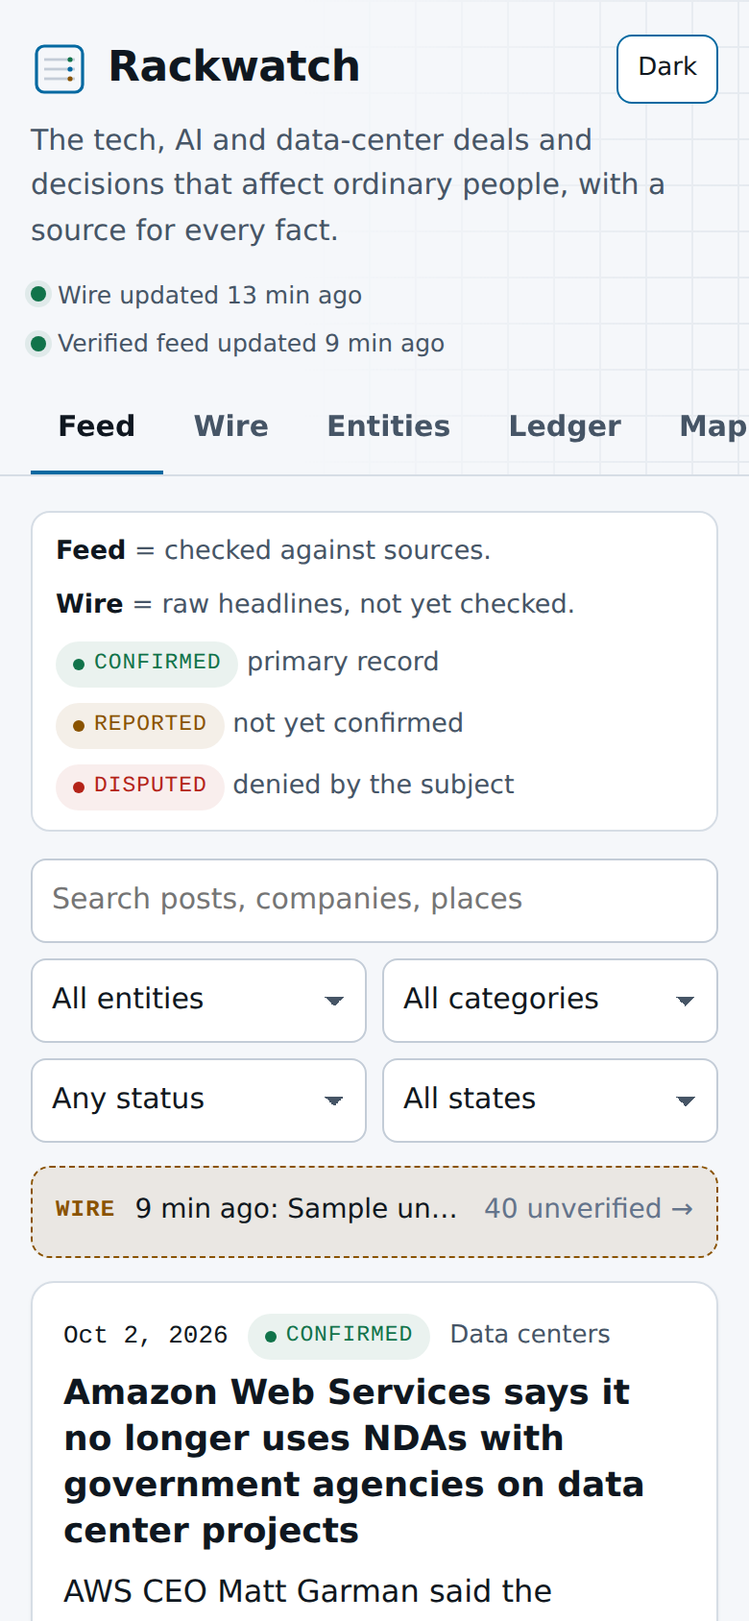
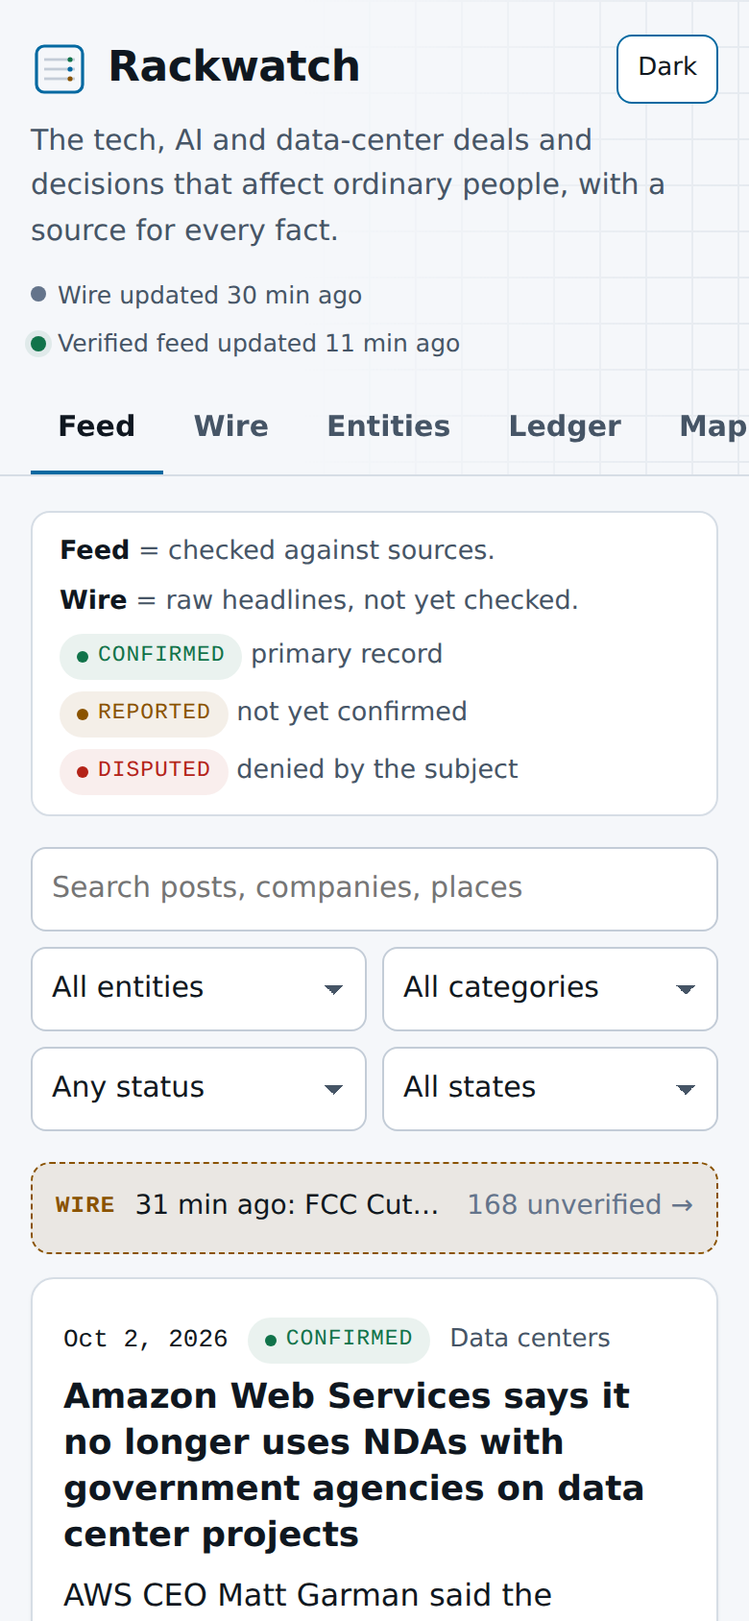
Site: shorter pages, sticky Wire sidebar, searchable Ledger and Entities (#2)
Feed, Wire, Entities, entity timelines, Ledger and Archive now page with
Prev/Next (page kept in the URL). The Feed's Wire sidebar is a sticky,
self-scrolling panel on desktop and hidden on phones in favor of the
Wire strip. Ledger gets search and a type filter (projects: search and
status); Entities gets search and sort. Entity pages drop the duplicate
full post list. 'New since your last visit' labels. Screenshots updated.

Claude-Session: https://claude.ai/code/session_01Gvus3rGbYfJZZkf6H1iRhh

diff --git a/docs/index.html b/docs/index.html
@@ -73,7 +73,7 @@ h3{font-size:17px;margin:0}
 .lbl{font-size:11.5px;letter-spacing:.06em;text-transform:uppercase;color:var(--faint)}
 
 /* legend */
-.legend{display:flex;flex-wrap:wrap;gap:8px 18px;font-size:13.5px;color:var(--muted);margin:0 0 14px;padding:10px 12px;border:1px solid var(--line);border-radius:10px;background:var(--panel)}
+.legend{display:flex;flex-wrap:wrap;gap:6px 16px;font-size:13.5px;color:var(--muted);margin:0 0 16px;padding:10px 14px;border:1px solid var(--line);border-radius:10px;background:var(--panel)}
 .legend b{color:var(--text);font-weight:600}
 .chip{display:inline-flex;align-items:center;gap:5px;font-size:11.5px;letter-spacing:.04em;text-transform:uppercase;padding:2px 8px;border-radius:999px;border:1px solid var(--line2);color:var(--muted);white-space:nowrap}
 .chip.confirmed{color:var(--ok);background:var(--ok-soft);border-color:transparent}
@@ -92,7 +92,7 @@ h3{font-size:17px;margin:0}
 .panel-h .r{margin-left:auto}
 
 /* filters */
-.filters{display:grid;gap:8px;grid-template-columns:1fr 1fr;margin-bottom:12px}
+.filters{display:grid;gap:8px;grid-template-columns:1fr 1fr;margin-bottom:16px}
 .filters .q{grid-column:1/-1}
 @media(min-width:700px){.filters{grid-template-columns:2fr 1fr 1fr 1fr 1fr}.filters .q{grid-column:auto}}
 input[type=search],select{width:100%;min-height:44px;font:inherit;font-size:15px;color:var(--text);background:var(--panel);border:1px solid var(--line2);border-radius:8px;padding:0 10px}
@@ -100,7 +100,8 @@ select{appearance:none;background-image:linear-gradient(45deg,transparent 50%,va
 .active-f{display:flex;flex-wrap:wrap;gap:6px;align-items:center;margin:-4px 0 12px;font-size:13.5px;color:var(--muted)}
 
 /* posts */
-.post{padding:16px;border-bottom:1px solid var(--line)}
+.post{padding:20px 16px;border-bottom:1px solid var(--line)}
+@media(min-width:700px){.post{padding:20px}}
 .post:last-child{border-bottom:0}
 .post:target,.post.hl{background:var(--accent-soft)}
 .meta{display:flex;flex-wrap:wrap;align-items:center;gap:6px 10px;font-size:13px;color:var(--muted);margin-bottom:6px}
@@ -116,7 +117,7 @@ select{appearance:none;background-image:linear-gradient(45deg,transparent 50%,va
 .srcs{font-size:14px;margin:6px 0 0;padding:0;list-style:none}
 .srcs li{margin:2px 0}
 .srcs .o{color:var(--muted)}
-.acts{display:flex;gap:6px;margin-top:10px}
+.acts{display:flex;gap:8px;margin-top:12px}
 .upd{margin:10px 0 4px;padding:8px 12px;border-left:2px solid var(--accent);background:var(--bg2);border-radius:0 8px 8px 0;font-size:14.5px}
 .upd ol{margin:4px 0 0;padding-left:18px}
 .upd li{margin:4px 0}
@@ -138,12 +139,24 @@ figcaption{font-size:12.5px;color:var(--muted)}
 .lane{font-size:11px}
 .wire-note{font-size:13px;color:var(--muted);padding:10px 14px;border-bottom:1px solid var(--line);background:var(--rep-soft)}
 .side-wire{max-height:none}
+.pager{display:flex;align-items:center;justify-content:space-between;gap:12px;padding:12px 16px;border-top:1px solid var(--line);font-size:13px}
+.pager .btn[disabled]{opacity:.4;cursor:default;border-color:var(--line)}
+.pager .mono{color:var(--muted)}
+.panel>.pager:first-child{border-top:0}
+.tbl-wrap+.pager,.ent-grid+.pager,.cards+.pager{border:1px solid var(--line);border-top:0;border-radius:0 0 12px 12px;background:var(--panel);margin-top:-1px}
+.ent-grid+.pager,.cards+.pager{border-top:1px solid var(--line);border-radius:12px;margin-top:12px}
+.toolbar{display:grid;gap:8px;grid-template-columns:1fr;margin:0 0 16px}
+@media(min-width:700px){.toolbar{grid-template-columns:minmax(0,1fr) 220px}}
+.side-foot{display:block;padding:12px 14px;border-top:1px solid var(--line);font-size:14px;font-weight:600;text-decoration:none}
+.chip.new{color:var(--accent);background:var(--accent-soft);border-color:transparent}
+.sec{margin-top:32px}
+.sec>h2{font-size:17px;margin:0 0 12px}
 .wire-strip{display:flex;gap:10px;align-items:center;margin:0 0 12px;padding:10px 12px;min-height:48px;border:1px dashed var(--rep);border-radius:10px;color:var(--text);text-decoration:none;font-size:14px;background:var(--rep-soft)}
 .wire-strip b{color:var(--rep);font-family:"JetBrains Mono",monospace;font-size:12px;text-transform:uppercase;letter-spacing:.05em;flex:0 0 auto}
 .wire-strip span{overflow:hidden;text-overflow:ellipsis;white-space:nowrap;min-width:0}
 @media(min-width:900px){.wire-strip{display:none!important}}
-@media(max-width:899px){.side-wire{order:2}}
-@media(min-width:900px){.side-wire .list{max-height:1100px;overflow:auto}}
+@media(max-width:899px){.side-wire{display:none}}
+@media(min-width:900px){.side-wire{position:sticky;top:16px;align-self:start;max-height:calc(100vh - 32px);display:flex;flex-direction:column;overflow:hidden}.side-wire .list{overflow-y:auto;overscroll-behavior:contain;flex:1 1 auto;min-height:0}.side-wire .panel-h,.side-wire .wire-note,.side-wire .side-foot{flex:0 0 auto}}
 
 /* tables */
 .tbl-wrap{overflow-x:auto;border:1px solid var(--line);border-radius:12px;background:var(--panel)}
@@ -160,10 +173,10 @@ td time{white-space:nowrap}
 .kv{display:grid;grid-template-columns:max-content 1fr;gap:4px 12px;font-size:14px;margin:8px 0}
 .kv dt{color:var(--faint);font-family:"JetBrains Mono",monospace;font-size:11.5px;text-transform:uppercase;letter-spacing:.05em;padding-top:2px}
 .kv dd{margin:0}
-.subtabs{display:flex;flex-wrap:wrap;gap:6px;margin:0 0 14px}
+.subtabs{display:flex;flex-wrap:wrap;gap:8px;margin:0 0 16px}
 .subtabs a{min-height:40px;display:inline-flex;align-items:center;padding:0 12px;border:1px solid var(--line2);border-radius:999px;color:var(--muted);text-decoration:none;font-size:14px;font-weight:600}
 .subtabs a[aria-current="true"]{background:var(--accent);color:var(--accent-ink);border-color:var(--accent)}
-.stats{display:grid;grid-template-columns:repeat(2,1fr);gap:10px;margin:12px 0 16px}
+.stats{display:grid;grid-template-columns:repeat(2,1fr);gap:12px;margin:16px 0 8px}
 @media(min-width:700px){.stats{grid-template-columns:repeat(4,1fr)}}
 .stat{border:1px solid var(--line);border-radius:10px;padding:10px 12px;background:var(--panel)}
 .stat .v{font-family:"JetBrains Mono",monospace;font-size:20px;font-weight:500}
@@ -281,6 +294,20 @@ function render(){
  document.title=`${t} · ${S.cfg.name||"Rackwatch"}`;
 }
 
+/* ---------- paging ---------- */
+const PER={feed:8,wire:30,ents:24,tl:12,lrows:10,ledger:20,proj:6,arch:8};
+S.pg={};
+function pg(page,total,per){const pages=Math.max(1,Math.ceil(total/per));page=Math.min(Math.max(1,+page||1),pages);return{page,pages,a:(page-1)*per,b:Math.min(total,page*per)}}
+function pager(id,total,page,per){
+ if(!total)return"";const P=pg(page,total,per);
+ if(P.pages<2)return`<div class="pager"><span class="mono">${total} item${total===1?"":"s"}</span></div>`;
+ return`<nav class="pager" aria-label="Pages"><button class="btn small" type="button" data-pg="${id}" data-to="${P.page-1}"${P.page<=1?" disabled":""}>← Prev</button><span class="mono">${P.a+1}–${P.b} of ${total} · page ${P.page} of ${P.pages}</span><button class="btn small" type="button" data-pg="${id}" data-to="${P.page+1}"${P.page>=P.pages?" disabled":""}>Next →</button></nav>`;
+}
+document.addEventListener("click",e=>{const b=e.target.closest("[data-pg]");if(!b||b.disabled)return;const f=S.pg[b.dataset.pg];if(!f)return;
+ const top=b.closest("[data-pgtop]")||b.closest(".panel")||b.parentElement;f(+b.dataset.to);
+ const t=document.querySelector(`[data-pgtop="${b.dataset.pg}"]`)||top;if(t&&t.getBoundingClientRect().top<0)t.scrollIntoView({block:"start"})});
+let LASTVISIT="";try{LASTVISIT=localStorage.getItem("rw-seen")||"";localStorage.setItem("rw-seen",new Date().toISOString())}catch(e){}
+
 /* ---------- shared renderers ---------- */
 function chip(s){return`<span class="chip ${esc(s)}">${esc(STATUS[s]||s)}</span>`}
 function srcList(src){return`<ul class="srcs" aria-label="Sources">${(src||[]).map(x=>`<li><span class="o">${esc(x.o)}:</span> <a href="${safeUrl(x.u)}" rel="noopener" target="_blank">${esc(x.t||x.o)}</a></li>`).join("")}</ul>`}
@@ -291,7 +318,7 @@ function postHTML(p,opt={}){
  const upd=p.updates&&p.updates.length?`<div class="upd"><span class="lbl">Updates</span><ol>${p.updates.slice().sort((a,b)=>a.d<b.d?1:-1).map(u=>`<li><time datetime="${esc(u.d)}">${fmtDate(u.d)}</time>: ${esc(u.t)} <a href="${safeUrl(u.u)}" rel="noopener" target="_blank">${esc(u.o)}</a></li>`).join("")}</ol></div>`:"";
  const g=giscusOn()?`<button class="btn small" type="button" data-discuss="${esc(p.id)}" aria-expanded="false">Discuss</button>`:"";
  return`<article class="post" id="p-${esc(p.id)}">
- <div class="meta"><time datetime="${esc(p.d)}">${fmtDate(p.d)}</time>${chip(p.s)}<span>${esc(p.c)}</span>${opt.arch?'<span class="chip plain">Archive</span>':""}</div>
+ <div class="meta"><time datetime="${esc(p.d)}">${fmtDate(p.d)}</time>${chip(p.s)}<span>${esc(p.c)}</span>${opt.arch?'<span class="chip plain">Archive</span>':""}${LASTVISIT&&p.added&&p.added>LASTVISIT?'<span class="chip new plain">New since your last visit</span>':""}</div>
  <h3><a href="#p-${esc(p.id)}">${esc(p.h)}</a></h3>${img}
  <p>${esc(p.b)}</p>${upd}
  ${ents||sts?`<div class="tags">${ents}${sts}</div>`:""}
@@ -341,8 +368,8 @@ function filterBar(q,withState=true){
 }
 function bindFilters(cb){
  const read=()=>({q:$("#f-q").value.trim(),e:$("#f-e").value,c:$("#f-c").value,s:$("#f-s").value,st:$("#f-st")?$("#f-st").value:""});
- let t;$("#f-q").addEventListener("input",()=>{clearTimeout(t);t=setTimeout(()=>{setQ(read());S.shown=30;cb(read())},200)});
- $$("#f-e,#f-c,#f-s,#f-st").forEach(s=>s.addEventListener("change",()=>{setQ(read());S.shown=30;cb(read())}));
+ let t;$("#f-q").addEventListener("input",()=>{clearTimeout(t);t=setTimeout(()=>{setQ(read());cb(read())},200)});
+ $$("#f-e,#f-c,#f-s,#f-st").forEach(s=>s.addEventListener("change",()=>{setQ(read());cb(read())}));
 }
 function activeLine(q,n){
  const bits=[];if(q.e)bits.push("entity: "+entName(q.e));if(q.c)bits.push(q.c);if(q.s)bits.push(STATUS[q.s]);if(q.st)bits.push(STATES[q.st]||q.st);if(q.q)bits.push(`“${q.q}”`);
@@ -351,11 +378,13 @@ function activeLine(q,n){
 function vFeed(r){
  const q=r.q;
  $("#main").innerHTML=`<div class="legend" role="note"><span><b>Feed</b> = checked against sources.</span><span><b>Wire</b> = raw headlines, not yet checked.</span><span>${chip("confirmed")} primary record</span><span>${chip("reported")} not yet confirmed</span><span>${chip("disputed")} denied by the subject</span></div>
- <div class="split"><section aria-labelledby="feed-h"><h2 id="feed-h" class="sr">Verified feed</h2>${filterBar(q)}<a class="wire-strip" href="#/wire" id="wire-strip" hidden></a><div id="pins"></div><div id="f-active"></div><div class="panel" id="feed-list"></div></section>
- <aside class="panel side-wire" aria-labelledby="sw-h"><div class="panel-h"><h2 id="sw-h">Wire</h2><span class="chip unv">Unverified</span><a class="r" href="#/wire">All</a></div><div class="wire-note">Headlines pulled automatically from public feeds. Not checked yet.</div><div class="list" id="side-wire"></div></aside></div>`;
- bindFilters(paintFeed);paintFeed(q);paintWireLists();
- if(r.post)goToPost(r.post);
+ <div class="split"><section aria-labelledby="feed-h"><h2 id="feed-h" class="sr">Verified feed</h2>${filterBar(q)}<a class="wire-strip" href="#/wire" id="wire-strip" hidden></a><div id="pins"></div><div id="f-active"></div><div class="panel" id="feed-list" data-pgtop="feed"></div></section>
+ <aside class="panel side-wire" aria-labelledby="sw-h"><div class="panel-h"><h2 id="sw-h">Wire</h2><span class="chip unv">Unverified</span><a class="r" href="#/wire">All</a></div><div class="wire-note">Headlines pulled automatically from public feeds. Not checked yet.</div><div class="list" id="side-wire"></div><a class="side-foot" href="#/wire" id="side-foot">Open the full Wire →</a></aside></div>`;
+ bindFilters(paintFeed);paintWireLists();
+ if(r.post){const i=feedOrder({}).findIndex(p=>p.id===r.post);if(i>=0)q.p=Math.floor(i/PER.feed)+1}
+ paintFeed(q).then(()=>{if(r.post)goToPost(r.post)});
 }
+function feedOrder(q){const now=today();const any=q.q||q.e||q.c||q.s||q.st;const pin=any?new Set():new Set(S.data.feed.filter(p=>p.pin&&(!p.pinUntil||p.pinUntil>=now)).slice(0,2).map(p=>p.id));return S.data.feed.filter(p=>!pin.has(p.id)&&matches(p,q)).sort(byDate)}
 async function paintFeed(q){
  const any=q.q||q.e||q.c||q.s||q.st;
  if(any&&!S.archAll)await loadAllArchive();
@@ -368,9 +397,10 @@ async function paintFeed(q){
  list=list.filter(p=>!pinIds.has(p.id)).sort(byDate);arch=arch.sort(byDate);
  const all=list.map(p=>[p,0]).concat(arch.map(p=>[p,1]));
  $("#f-active").innerHTML=activeLine(q,all.length);
- const html=all.slice(0,S.shown).map(([p,a])=>postHTML(p,{arch:a})).join("");
- $("#feed-list").innerHTML=(html||`<p class="empty">No posts match. Try clearing a filter.</p>`)+(all.length>S.shown?`<div class="more"><button class="btn" id="more" type="button">Show more (${all.length-S.shown} left)</button></div>`:"");
- const m=$("#more");if(m)m.onclick=()=>{S.shown+=30;paintFeed(q)};
+ const P=pg(q.p,all.length,PER.feed);
+ const html=all.slice(P.a,P.b).map(([p,a])=>postHTML(p,{arch:a})).join("");
+ $("#feed-list").innerHTML=(html||`<p class="empty">No posts match. Try clearing a filter.</p>`)+pager("feed",all.length,P.page,PER.feed);
+ S.pg.feed=n=>{q.p=n;setQ(q);paintFeed(q)};
 }
 async function goToPost(id){
  let el=document.getElementById("p-"+id);
@@ -380,7 +410,8 @@ async function goToPost(id){
 }
 function paintWireLists(){
  const items=(S.wire&&S.wire.items)||[];
- const side=$("#side-wire");if(side)side.innerHTML=items.slice(0,25).map(wireHTML).join("")||`<p class="empty">The Wire has no headlines yet. It fills in once the GitHub Action runs.</p>`;
+ const side=$("#side-wire");if(side)side.innerHTML=items.slice(0,60).map(wireHTML).join("")||`<p class="empty">The Wire has no headlines yet. It fills in once the GitHub Action runs.</p>`;
+ const sf=$("#side-foot");if(sf)sf.textContent=items.length?`Open the full Wire (${items.length}) →`:"Open the Wire →";
  const full=$("#wire-list");if(full)paintWire();
  const st=$("#wire-strip");if(st){if(items.length){st.hidden=false;st.innerHTML=`<b>Wire</b><span>${esc(ago(items[0].at))}: ${esc(items[0].t)}</span><span class="faint" style="flex:0 0 auto">${items.length} unverified →</span>`}else st.hidden=true}
 }
@@ -391,16 +422,19 @@ function vWire(r){
  $("#main").innerHTML=`<h2>Wire</h2><p class="muted" style="max-width:760px">Headlines collected automatically ${esc(S.cfg.wire_interval||"every few minutes")} from agency feeds, court and filing searches, and news outlets. <b>Nothing here has been checked.</b> The ${esc(S.cfg.routine_interval||"hourly")} verification run reads these at their sources; what holds up moves to the Feed with a status label.</p>
  <form class="filters" onsubmit="return false" style="grid-template-columns:2fr 1fr"><label class="q"><span class="sr">Search the Wire</span><input type="search" id="w-q" placeholder="Search headlines" value="${esc(q.q||"")}"></label>
  <label><span class="sr">Lane</span><select id="w-l"><option value="">All lanes</option>${lanes.map(l=>`<option${q.l===l?" selected":""}>${l}</option>`).join("")}</select></label></form>
- <div class="panel"><div class="panel-h"><span class="chip unv">Unverified headlines</span><span class="r muted mono" style="font-size:12.5px" id="w-n"></span></div><div id="wire-list"></div></div>
+ <div class="panel" data-pgtop="wire"><div class="panel-h"><span class="chip unv">Unverified headlines</span><span class="r muted mono" style="font-size:12.5px" id="w-n"></span></div><div id="wire-list"></div></div>
  <p class="muted" style="font-size:13.5px">Lanes: <b>agency</b> official press feeds; <b>court</b> opinion searches; <b>filing</b> SEC full-text search; <b>news</b> outlet feeds; <b>search</b> news-search queries (outlet named on each item). Source health: <a href="wire-status.json">wire-status.json</a>.</p>`;
- const go=()=>{setQ({q:$("#w-q").value.trim(),l:$("#w-l").value});paintWire()};
+ S.wpage=+q.p||1;
+ const go=()=>{S.wpage=1;setQ({q:$("#w-q").value.trim(),l:$("#w-l").value});paintWire()};
+ S.pg.wire=n=>{S.wpage=n;setQ({q:$("#w-q").value.trim(),l:$("#w-l").value,p:n});paintWire()};
  $("#w-q").addEventListener("input",go);$("#w-l").addEventListener("change",go);paintWire();
 }
 function paintWire(){
  const q=$("#w-q")?$("#w-q").value.trim().toLowerCase():"",l=$("#w-l")?$("#w-l").value:"";
  const items=((S.wire&&S.wire.items)||[]).filter(i=>(!l||i.lane===l)&&(!q||(i.t+" "+i.o).toLowerCase().includes(q)));
  $("#w-n").textContent=items.length+" headlines";
- $("#wire-list").innerHTML=items.map(wireHTML).join("")||`<p class="empty">No headlines${q||l?" match":" yet"}.</p>`;
+ const P=pg(S.wpage,items.length,PER.wire);
+ $("#wire-list").innerHTML=(items.slice(P.a,P.b).map(wireHTML).join("")||`<p class="empty">No headlines${q||l?" match":" yet"}.</p>`)+pager("wire",items.length,P.page,PER.wire);
 }
 
 /* ---------- entities ---------- */
@@ -410,12 +444,28 @@ function entStats(id){
  return{posts,rows:rows.length};
 }
 function vEntities(r){
- const k=r.q.k||"";
- const kinds=[...new Set(S.ents.map(e=>e.k))];
- const list=S.ents.filter(e=>!k||e.k===k).map(e=>({...e,...entStats(e.id)})).sort((a,b)=>(b.posts+b.rows)-(a.posts+a.rows)||a.n.localeCompare(b.n));
+ const q=r.q,k=q.k||"";
+ const kinds=[...new Set(S.ents.map(e=>e.k))].sort((a,b)=>(KINDS[a]||a).localeCompare(KINDS[b]||b));
+ const all=S.ents.map(e=>({...e,...entStats(e.id)}));
  $("#main").innerHTML=`<h2>Entities</h2><p class="muted">Companies, agencies, officials, utilities and places named in the Feed and Ledger. Each page shows its timeline, deals, money in and out, and linked posts.</p>
- <div class="subtabs" role="list"><a role="listitem" href="#/entities" aria-current="${!k}">All (${S.ents.length})</a>${kinds.map(x=>`<a role="listitem" href="#/entities?k=${x}" aria-current="${k===x}">${esc(KINDS[x]||x)}</a>`).join("")}</div>
- <div class="ent-grid">${list.map(e=>`<a class="ent" href="#/entity/${encodeURIComponent(e.id)}"><span class="n">${esc(e.n)}</span><span class="c">${esc(KINDS[e.k]||e.k)} · <span class="mono">${e.posts}</span> posts · <span class="mono">${e.rows}</span> ledger rows</span></a>`).join("")}</div>`;
+ <div class="subtabs">${[["","All"]].concat(kinds.map(x=>[x,KINDS[x]||x])).map(([x,n])=>`<a href="#/entities${x?"?k="+x:""}" aria-current="${k===x}">${esc(n)} (${all.filter(e=>!x||e.k===x).length})</a>`).join("")}</div>
+ <form class="toolbar" role="search" onsubmit="return false"><label><span class="sr">Search entities</span><input type="search" id="e-q" placeholder="Search names and notes" value="${esc(q.q||"")}"></label>
+ <label><span class="sr">Sort</span><select id="e-s"><option value="act">Most activity first</option><option value="az"${q.s==="az"?" selected":""}>A to Z</option><option value="new"${q.s==="new"?" selected":""}>Most recent activity</option></select></label></form>
+ <div id="e-list" data-pgtop="ents"></div>`;
+ const last=id=>{const d=S.data.feed.filter(p=>(p.e||[]).includes(id)).map(p=>p.d).concat(S.data.ledger.filter(x=>(x.e||[]).includes(id)||x.fe===id||x.te===id).map(x=>x.d)).sort().pop();return d||""};
+ let page=+q.p||1;
+ const paint=()=>{
+  const t=$("#e-q").value.trim().toLowerCase(),so=$("#e-s").value;
+  let list=all.filter(e=>(!k||e.k===k)&&(!t||(e.n+" "+(e.note||"")).toLowerCase().includes(t)));
+  if(so==="az")list.sort((a,b)=>a.n.localeCompare(b.n));else if(so==="new")list.sort((a,b)=>last(b.id).localeCompare(last(a.id))||a.n.localeCompare(b.n));else list.sort((a,b)=>(b.posts+b.rows)-(a.posts+a.rows)||a.n.localeCompare(b.n));
+  const P=pg(page,list.length,PER.ents);
+  $("#e-list").innerHTML=(list.length?`<div class="ent-grid">${list.slice(P.a,P.b).map(e=>`<a class="ent" href="#/entity/${encodeURIComponent(e.id)}"><span class="n">${esc(e.n)}</span><span class="c">${esc(KINDS[e.k]||e.k)} · <span class="mono">${e.posts}</span> posts · <span class="mono">${e.rows}</span> ledger rows</span></a>`).join("")}</div>`:'<p class="empty">No entities match.</p>')+pager("ents",list.length,P.page,PER.ents);
+ };
+ const save=()=>setQ({k,q:$("#e-q").value.trim(),s:$("#e-s").value==="act"?"":$("#e-s").value,p:page>1?page:""});
+ S.pg.ents=n=>{page=n;save();paint()};
+ let tm;$("#e-q").addEventListener("input",()=>{clearTimeout(tm);tm=setTimeout(()=>{page=1;save();paint()},150)});
+ $("#e-s").addEventListener("change",()=>{page=1;save();paint()});
+ paint();
 }
 async function vEntity(r){
  const id=r.arg,e=S.E[id];
@@ -430,10 +480,13 @@ async function vEntity(r){
  $("#main").innerHTML=`<p><a href="#/entities">← All entities</a></p><h2>${esc(e.n)}</h2><p class="muted">${esc(KINDS[e.k]||e.k)}${e.note?" · "+esc(e.note):""}</p>
  <div class="stats"><div class="stat"><div class="v">${posts.length}</div><div class="k">posts</div></div><div class="stat"><div class="v">${deals.length}</div><div class="k">deals and contracts</div></div><div class="stat"><div class="v">${money(out||null)}</div><div class="k">money out (confirmed)</div></div><div class="stat"><div class="v">${money(inn||null)}</div><div class="k">money in (confirmed)</div></div></div>
  <p class="faint" style="font-size:13px">Money totals add confirmed ledger rows only and may mix different kinds of money (deals, fines, lobbying). See each row.</p>
- <div class="split"><section><h2 style="font-size:17px">Timeline</h2>${tl.length?`<ol class="tl">${tl.map(t=>`<li class="${t.m?"money":""}"><time datetime="${esc(t.d)}" class="faint" style="font-size:12.5px">${fmtDate(t.d)}</time><div>${t.h}</div></li>`).join("")}</ol>`:'<p class="muted">Nothing yet.</p>'}</section>
+ <div class="split sec"><section><h2 style="font-size:17px;margin:0 0 12px">Timeline</h2><div class="panel" style="padding:16px 16px 0" data-pgtop="tl"><div id="tl"></div></div><p style="margin:12px 0 0;font-size:14px">${posts.length?`<a href="#/feed?e=${encodeURIComponent(id)}">Read all ${posts.length} posts in full in the Feed →</a>`:""}</p></section>
  <aside>${projs.length?`<h2 style="font-size:17px">Data center projects</h2>${projs.map(projCard).join("")}`:`<h2 style="font-size:17px">About this page</h2><p class="muted" style="font-size:14px">Built from every post and confirmed ledger row tagged with ${esc(e.n)}. Tags are added by the verification run; if something is missing, say so in the comments or Discussions.</p>`}</aside></div>
- ${rows.length?`<h2 style="font-size:17px;margin-top:20px">Ledger rows</h2><div class="tbl-wrap">${ledgerTable(rows)}</div>`:""}
- <h2 style="font-size:17px;margin-top:20px">Linked posts</h2><div class="panel">${posts.map(p=>postHTML(p)).join("")||'<p class="empty">No posts yet.</p>'}</div>`;
+ ${rows.length?`<section class="sec"><h2>Ledger rows</h2><div id="el" data-pgtop="lrows"></div></section>`:""}`;
+ let tp=1,lp=1;
+ const ptl=()=>{const P=pg(tp,tl.length,PER.tl);$("#tl").innerHTML=(tl.length?`<ol class="tl">${tl.slice(P.a,P.b).map(t=>`<li class="${t.m?"money":""}"><time datetime="${esc(t.d)}" class="faint" style="font-size:12.5px">${fmtDate(t.d)}</time><div>${t.h}</div></li>`).join("")}</ol>`:'<p class="muted" style="padding-bottom:16px">Nothing yet.</p>')+(tl.length>PER.tl?`<div style="margin:0 -16px">${pager("tl",tl.length,P.page,PER.tl)}</div>`:"")};
+ const pl=()=>{if(!rows.length)return;const P=pg(lp,rows.length,PER.lrows);$("#el").innerHTML=`<div class="tbl-wrap">${ledgerTable(rows.slice(P.a,P.b))}</div>`+(rows.length>PER.lrows?pager("lrows",rows.length,P.page,PER.lrows):"")};
+ S.pg.tl=n=>{tp=n;ptl()};S.pg.lrows=n=>{lp=n;pl()};ptl();pl();
 }
 
 /* ---------- ledger ---------- */
@@ -445,18 +498,38 @@ function projCard(p){
  return`<div class="card" id="dc-${esc(p.id)}"><div class="meta"><span class="chip plain">${esc(p.status)}</span><span class="mono">${esc(p.st)}</span><time datetime="${esc(p.d)}">as of ${fmtDate(p.d)}</time></div><h3>${esc(p.n)}</h3>
  <dl class="kv"><dt>Who</dt><dd>${(p.e||[]).map(id=>`<a href="#/entity/${esc(id)}">${esc(entName(id))}</a>`).join(", ")||esc(p.co)}</dd><dt>Where</dt><dd>${esc(p.place)}, ${esc(STATES[p.st]||p.st)}</dd><dt>Size</dt><dd class="mono">${p.mw!=null?esc(p.mw)+" MW":"Not stated"}</dd><dt>Power</dt><dd>${esc(p.power)}</dd><dt>Water</dt><dd>${esc(p.water)}</dd><dt>Incentives</dt><dd>${esc(p.incent)}</dd><dt>Opposition</dt><dd>${esc(p.opp)}</dd></dl>${srcList(p.src)}</div>`;
 }
+function ledgerHay(x){return[x.d,x.t,x.from,x.to,x.note,entName(x.fe||""),entName(x.te||""),(x.e||[]).map(entName).join(" "),(x.src||[]).map(s=>s.o).join(" "),money(x.amt)].join(" ").toLowerCase()}
+function projHay(p){return[p.n,p.co,p.place,p.st,STATES[p.st]||"",p.status,p.power,p.water,p.incent,p.opp,(p.e||[]).map(entName).join(" ")].join(" ").toLowerCase()}
 function vLedger(r){
- const tab=r.arg||"all",T=LTABS.find(t=>t[0]===tab)||LTABS[0];
- let body;
- if(tab==="projects"){const ps=(S.data.projects||[]).slice().sort((a,b)=>a.st<b.st?-1:1);body=`<p class="muted">Large US data center projects: size, power and water claims (attributed to who made them), incentives, status and opposition.</p><div class="cards">${ps.map(projCard).join("")}</div>`}
- else{
-  const rows=S.data.ledger.filter(x=>!T[2]||T[2].includes(x.t)).sort(byDate);
+ const tab=r.arg||"all",T=LTABS.find(t=>t[0]===tab)||LTABS[0],q=r.q;
+ const isP=tab==="projects";
+ $("#main").innerHTML=`<h2>Ledger</h2><div class="subtabs">${LTABS.map(t=>`<a href="#/ledger/${t[0]}" aria-current="${t[0]===tab}">${t[1]}</a>`).join("")}</div>
+ <p class="muted" id="l-note"></p>
+ <form class="toolbar" role="search" onsubmit="return false"><label><span class="sr">Search the ledger</span><input type="search" id="l-q" placeholder="${isP?"Search projects, companies, states":"Search companies, agencies, notes, dates"}" value="${esc(q.q||"")}"></label>
+ ${isP?`<label><span class="sr">Status</span><select id="l-t"><option value="">Any status</option>${[...new Set((S.data.projects||[]).map(p=>p.status))].sort().map(x=>`<option${q.t===x?" selected":""}>${esc(x)}</option>`).join("")}</select></label>`:`<label><span class="sr">Type</span><select id="l-t"><option value="">All types</option>${(T[2]||S.cfg.ledger_types||[]).map(x=>`<option${q.t===x?" selected":""}>${esc(x)}</option>`).join("")}</select></label>`}</form>
+ <div id="l-body" data-pgtop="ledger"></div><div id="l-extra"></div>`;
+ let page=+q.p||1;
+ const paint=()=>{
+  const t=$("#l-q").value.trim().toLowerCase(),ty=$("#l-t").value,words=t.split(/\s+/).filter(Boolean);
+  if(isP){
+   const ps=(S.data.projects||[]).filter(p=>(!ty||p.status===ty)&&words.every(w=>projHay(p).includes(w))).sort((a,b)=>a.st<b.st?-1:a.st>b.st?1:0);
+   $("#l-note").textContent="Large US data center projects: size, power and water claims (attributed to who made them), incentives, status and opposition.";
+   const P=pg(page,ps.length,PER.proj);
+   $("#l-body").innerHTML=(ps.length?`<div class="cards">${ps.slice(P.a,P.b).map(projCard).join("")}</div>`:'<p class="empty">No projects match.</p>')+(ps.length>PER.proj?pager("ledger",ps.length,P.page,PER.proj):"");
+   return;
+  }
+  const rows=S.data.ledger.filter(x=>(!T[2]||T[2].includes(x.t))&&(!ty||x.t===ty)&&words.every(w=>ledgerHay(x).includes(w))).sort(byDate);
   const tot=rows.filter(x=>x.amt!=null).reduce((a,x)=>a+ +x.amt,0);
-  let extra="";
-  if(tab==="money"){const by={};rows.forEach(x=>{if(x.amt!=null)by[x.from]=(by[x.from]||0)+ +x.amt});extra=`<h3 style="margin:14px 0 8px">By payer</h3><div class="tbl-wrap"><table><thead><tr><th>Payer</th><th class="num">Confirmed total</th></tr></thead><tbody>${Object.entries(by).sort((a,b)=>b[1]-a[1]).map(([k,v])=>`<tr><td>${esc(k)}</td><td class="num mono">${money(v)}</td></tr>`).join("")}</tbody></table></div>`}
-  body=`<p class="muted">Confirmed rows only. Amounts are what the filing, company or authority announced; a dash means not disclosed. ${rows.length} rows${tot?`, <span class="mono">${money(tot)}</span> disclosed`:""}.</p><div class="tbl-wrap">${rows.length?ledgerTable(rows):'<p class="empty">No rows yet.</p>'}</div>${extra}`;
- }
- $("#main").innerHTML=`<h2>Ledger</h2><div class="subtabs">${LTABS.map(t=>`<a href="#/ledger/${t[0]}" aria-current="${t[0]===tab}">${t[1]}</a>`).join("")}</div>${body}`;
+  $("#l-note").innerHTML=`Confirmed rows only. Amounts are what the filing, company or authority announced; a dash means not disclosed. <span class="mono">${rows.length}</span> row${rows.length===1?"":"s"}${tot?`, <span class="mono">${money(tot)}</span> disclosed`:""}${t||ty?" match":""}.`;
+  const P=pg(page,rows.length,PER.ledger);
+  $("#l-body").innerHTML=rows.length?`<div class="tbl-wrap">${ledgerTable(rows.slice(P.a,P.b))}</div>${pager("ledger",rows.length,P.page,PER.ledger)}`:'<div class="tbl-wrap"><p class="empty">No rows match.</p></div>';
+  if(tab==="money"){const by={};rows.forEach(x=>{if(x.amt!=null)by[x.from]=(by[x.from]||0)+ +x.amt});$("#l-extra").innerHTML=Object.keys(by).length?`<section class="sec"><h2>By payer</h2><div class="tbl-wrap"><table><thead><tr><th>Payer</th><th class="num">Confirmed total</th></tr></thead><tbody>${Object.entries(by).sort((a,b)=>b[1]-a[1]).map(([k,v])=>`<tr><td>${esc(k)}</td><td class="num mono">${money(v)}</td></tr>`).join("")}</tbody></table></div></section>`:""}
+ };
+ const save=()=>setQ({q:$("#l-q").value.trim(),t:$("#l-t").value,p:page>1?page:""});
+ S.pg.ledger=n=>{page=n;save();paint()};
+ let tm;$("#l-q").addEventListener("input",()=>{clearTimeout(tm);tm=setTimeout(()=>{page=1;save();paint()},150)});
+ $("#l-t").addEventListener("change",()=>{page=1;save();paint()});
+ paint();
 }
 
 /* ---------- maps & diagrams ---------- */
@@ -515,7 +588,8 @@ async function vArchive(r){
  $("#main").innerHTML=`<h2>Archive</h2><p class="muted">Posts stay in the Feed for ${esc(S.cfg.archive_days||90)} days, then move to a monthly archive file. Nothing is deleted. Search covers the Feed and every archive month.</p>
  <form class="filters" role="search" onsubmit="return false" style="grid-template-columns:1fr"><label class="q"><span class="sr">Search everything</span><input type="search" id="a-q" placeholder="Search all posts, including the archive" value="${esc(r.q.q||"")}"></label></form>
  <div class="subtabs"><a href="#/archive" aria-current="${!m}">Last ${esc(S.cfg.archive_days||90)} days (${recent})</a>${idx.months.map(x=>`<a href="#/archive/${esc(x.m)}" aria-current="${m===x.m}">${new Date(x.m+"-15").toLocaleDateString("en-US",{month:"short",year:"numeric"})} (${x.n})</a>`).join("")}</div>
- <div id="a-active"></div><div class="panel" id="a-list"><p class="empty">Loading…</p></div>`;
+ <div id="a-active"></div><div class="panel" id="a-list" data-pgtop="arch"><p class="empty">Loading…</p></div>`;
+ let page=+r.q.p||1;
  const paint=async()=>{
   const q=$("#a-q").value.trim();
   let list,arch=0;
@@ -524,9 +598,11 @@ async function vArchive(r){
   else list=S.data.feed.map(p=>[p,0]);
   list.sort((a,b)=>byDate(a[0],b[0]));
   $("#a-active").innerHTML=q?`<div class="active-f">${list.length} result${list.length===1?"":"s"} across the Feed and archive</div>`:"";
-  $("#a-list").innerHTML=list.map(([p,a])=>postHTML(p,{arch:a})).join("")||`<p class="empty">Nothing here${q?" matches":" yet"}.</p>`;
+  const P=pg(page,list.length,PER.arch);
+  $("#a-list").innerHTML=(list.slice(P.a,P.b).map(([p,a])=>postHTML(p,{arch:a})).join("")||`<p class="empty">Nothing here${q?" matches":" yet"}.</p>`)+pager("arch",list.length,P.page,PER.arch);
  };
- let t;$("#a-q").addEventListener("input",()=>{clearTimeout(t);t=setTimeout(()=>{setQ({q:$("#a-q").value.trim()});paint()},200)});paint();
+ S.pg.arch=n=>{page=n;setQ({q:$("#a-q").value.trim(),p:n>1?n:""});paint()};
+ let t;$("#a-q").addEventListener("input",()=>{clearTimeout(t);t=setTimeout(()=>{page=1;setQ({q:$("#a-q").value.trim()});paint()},200)});paint();
 }
 
 /* ---------- about ---------- */
@@ -572,7 +648,7 @@ async function boot(){
  if(S.cfg.tagline)$("#lede").textContent=S.cfg.tagline;
  $("#f-csv").href=(S.cfg.repo_url||"")+"/blob/main/ledger.csv";$("#f-repo").href=S.cfg.repo_url||"#";$("#f-disc").href=(S.cfg.repo_url||"")+"/discussions";
  if(S.cfg.sister)$("#f-sister").innerHTML=`Also from the same maker: <a href="${safeUrl(S.cfg.sister.url)}">${esc(S.cfg.sister.name)}</a>, ${esc(S.cfg.sister.note)}.`;
- window.addEventListener("hashchange",()=>{S.shown=30;render();if(!/^#p-/.test(location.hash))window.scrollTo(0,0)});
+ window.addEventListener("hashchange",()=>{render();if(!/^#p-/.test(location.hash))window.scrollTo(0,0)});
  render();refreshWire();
  setInterval(refreshWire,120000);setInterval(paintFresh,30000);
 }

diff --git a/CHANGELOG.md b/CHANGELOG.md
@@ -2,6 +2,14 @@
 
 Content updates are committed as "Update YYYY-MM-DD HH:MM" and summarized in `reports/`. Wire commits are "Wire <time>". Design and feature changes are listed here, newest first.
 
+## 2026-10-05 (shorter pages)
+- Every long list is now paged with Prev/Next and a "1–8 of 41" count, and the page number is kept in the link: Feed (8 posts), Wire (30), Entities (24), entity timelines (12) and ledger rows (10), Ledger (20 rows, 6 projects), Archive (8).
+- Wire sidebar on the Feed is a fixed-height panel that stays in view and scrolls on its own (desktop). On phones it is replaced by the one-line Wire strip.
+- Ledger: search box (companies, agencies, notes, dates, sources) and a type filter; data center projects can be searched and filtered by status.
+- Entities: search, sort (most activity, A to Z, most recent), and per-kind counts. Entity pages no longer repeat every post in full under the timeline; they link to the Feed filtered to that entity.
+- Posts added since your last visit carry a "New since your last visit" label (stored only in your browser).
+- Spacing tightened to one scale (8, 12, 16, 24, 32 px).
+
 ## 2026-10-05 (after first live Wire run)
 - Wire: switched off FTC, SEC litigation, CalPrivacy and OpenSecrets feeds (HTTP 403 from GitHub runners) and added Google News searches for FTC and CalPrivacy; PJM Inside Lines switched off (serves a bot-check page to GitHub runners); lenient fallback reader for malformed feeds; clearer error when a feed returns an HTML page; tighter filters for general outlets (core topic, or tech subject plus impact term, on the title). Tests cover the filters with real headlines.
 - About: blind spot for agencies that block the headline collector.
